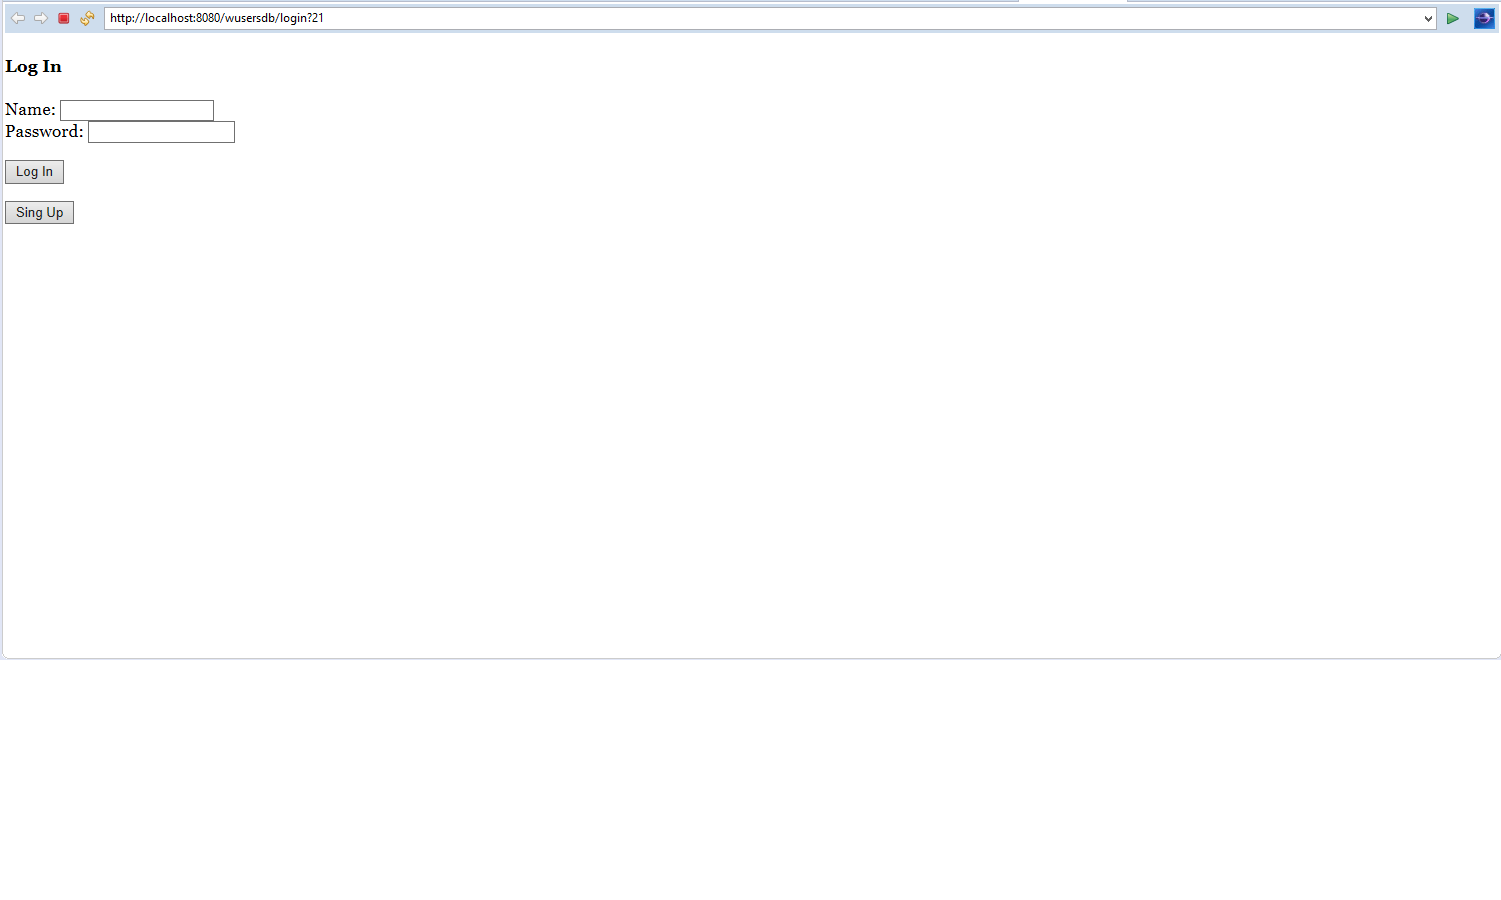
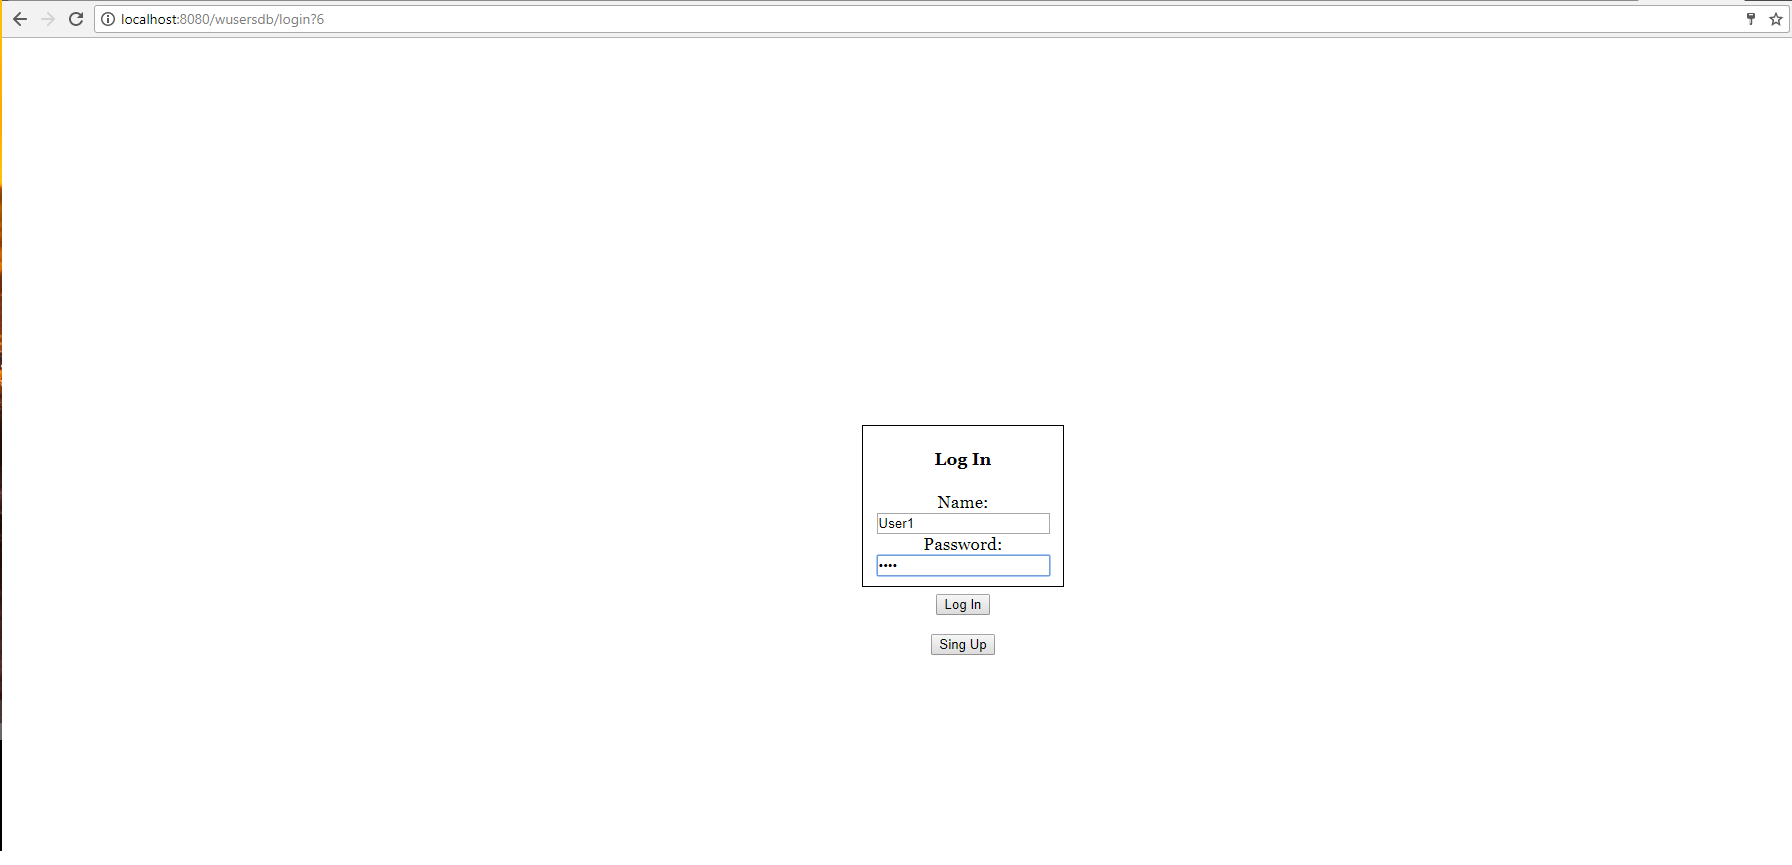
Refactoring

diff --git a/src/main/java/ua/sustavov/view/EditPanel.html b/src/main/java/ua/sustavov/view/EditPanel.html
@@ -1,24 +1,29 @@
 <!DOCTYPE html>
 <html xmlns:wicket="http://wicket.apache.org">
+<head>
+<meta charset="UTF-8">
+<link rel="stylesheet" type="text/css" href="style.css" />
+</head>
 <body>
 <wicket:panel>
 	<!-- <h4>Edit</h4> -->
+	<div id="editpanel_form">
 	<span style="color: green" wicket:id="succes"> </span>
 	<span style="color: red" wicket:id="feedback"></span>
 	<span wicket:id="listview">
 	<form wicket:id="panelForm">
-		Id: <input wicket:id="id" type="text" size="20" /><br /> Name: <input
-			wicket:id="name" type="text" size="20" /><br /> Surname: <input
-			wicket:id="surname" type="text" size="20" /><br /> Password: <input
-			wicket:id="password" type="password" size="20" /><br /> Confirm Password: <input
-			wicket:id="password2" type="password" size="20" /><br /> Email: <input
-			wicket:id="email" type="text" size="20" /><br /> Role: <select
+		Id: <input wicket:id="id" type="text" size="20" /> Name: <input
+			wicket:id="name" type="text" size="20" /> Surname: <input
+			wicket:id="surname" type="text" size="20" /> Password: <input
+			wicket:id="password" type="password" size="20" /> Confirm Password: <input
+			wicket:id="password2" type="password" size="20" /> Email: <input
+			wicket:id="email" type="text" size="20" /> Role: <select
 			wicket:id="role">
 			<option></option>
 		</select><br /> <input type="submit" value="Save" /> <button wicket:id="cancelbutton" type="button" value="Cancel">Cancel</button> 
 	</form>
 	</span>
-	
+	</div>
 </wicket:panel>
 </body>
 </html>

diff --git a/src/main/java/ua/sustavov/view/register/RegisterPage.html b/src/main/java/ua/sustavov/view/register/RegisterPage.html
@@ -2,22 +2,27 @@
 <html xmlns:wicket="http://wicket.apache.org">
 <head>
 <meta charset="UTF-8">
+<link rel="stylesheet" type="text/css" href="style.css" />
 <title>Registration page</title>
 </head>
 <body>
-	<h4>Registration</h4>
 	<span style="color: green" wicket:id="succes"> </span>
 	<span style="color: red" wicket:id="feedback"></span>
-	<form wicket:id="registerForm">
-		Name: <input wicket:id="name" type="text" size="20" /><br />
-		Surname: <input wicket:id="surname" type="text" size="20" /><br />
-		Email: <input wicket:id="email" type="text" size="20" /><br />
-		Password: <input wicket:id="password" type="password" size="20" /><br />
-		Confirm Password: <input wicket:id="password2" type="password"
-			size="20" /><br /> Role: <select wicket:id="role">
-			<option></option>
-		</select><br /> <input type="submit" value="Sing Up" />
-	</form>
-
+	<div id="registered_form">
+		<h4>Registration</h4>
+		<form wicket:id="registerForm">
+			Name: <input wicket:id="name" type="text" size="20" /><br />
+			Surname: <input wicket:id="surname" type="text" size="20" /><br />
+			Email: <input wicket:id="email" type="text" size="20" /><br />
+			Password: <input wicket:id="password" type="password" size="20" /><br />
+			Confirm Password: <input wicket:id="password2" type="password"
+				size="20" /><br /> Role: <select wicket:id="role">
+				<option></option>
+			</select><br />
+			<p>
+				<input type="submit" value="Sing Up" />
+			</p>
+		</form>
+	</div>
 </body>
 </html>

diff --git a/src/main/webapp/style.css b/src/main/webapp/style.css
@@ -69,10 +69,48 @@ h3 {
 #action_form {
     position:absolute;
         width:200px;
-        height:150px;
+        height:160px;
         left:50%;
         top:50%;
         margin-left:-100px;
         margin-top:-100px;
-        border:1px solid
+        border:1px solid;
+}
+#registered_form {
+    position:absolute;
+        width:200px;
+        height:300px;
+        left:50%;
+        top:50%;
+        margin-left:-100px;
+        margin-top:-100px;
+        border:1px solid;
+}
+#editpanel_form {
+    padding: 10px;
+  	margin: 0;
+}
+table.users {
+	border-width: 0px;
+	border-color: gray;
+	border-collapse: collapse;
+	position:relative;
+	left:30%;
+	border-spacing: 10px;
+
+}
+
+table.users th, table.users td {
+	border-width: 1px;
+	padding: 3px;
+	border-style: inset;
+	border-color: gray;
+}
+
+table.users th {
+	font-weight: bold;
+}
+
+a {
+	color: red;
 }

diff --git a/src/main/java/ua/sustavov/view/login/LoginPage.html b/src/main/java/ua/sustavov/view/login/LoginPage.html
@@ -6,14 +6,17 @@
 <title>Login page</title>
 </head>
 <body>
+	<span style="color: green" wicket:id="succes"> </span>
+	<span style="color: red" wicket:id="feedback"></span>
 	<div id="action_form">
 		<h4>Log In</h4>
-		<span style="color: green" wicket:id="succes"> </span> <span
-			style="color: red" wicket:id="feedback"></span>
+
 		<form wicket:id="loginForm">
 			Name: <input wicket:id="name" type="text" size="20" /><br />
 			Password: <input wicket:id="password" type="password" size="20" />
-			<p><input type="submit" value="Log In" /></p>
+			<p>
+				<input type="submit" value="Log In" />
+			</p>
 		</form>
 		<button wicket:id="singup" type="button" value="Sing Up">Sing
 			Up</button>

diff --git a/src/main/java/ua/sustavov/view/UsersPage.html b/src/main/java/ua/sustavov/view/UsersPage.html
@@ -2,31 +2,11 @@
 <html xmlns:wicket="http://wicket.apache.org">
 <head>
 <meta charset="UTF-8">
+<link rel="stylesheet" type="text/css" href="style.css" />
 <title>All users db</title>
-<style type="text/css">
-table.users {
-	border-width: 0px;
-	border-color: gray;
-	border-collapse: collapse;
-}
-
-table.users th, table.users td {
-	border-width: 1px;
-	padding: 3px;
-	border-style: inset;
-	border-color: gray;
-}
-
-table.users th {
-	font-weight: bold;
-}
-
-a {
-	color: red;
-}
-</style>
 </head>
 <body>
+
 	<span style="color: green" wicket:id="succes"> </span>
 	<span style="color: red" wicket:id="feedback"></span>
 	<table wicket:id="users" class="users"></table>

diff --git a/src/main/java/ua/sustavov/view/EditPanel.java b/src/main/java/ua/sustavov/view/EditPanel.java
@@ -47,7 +47,7 @@ public class EditPanel extends Panel {
 		}
 
 		@Override
-		protected void onSubmit() {
+		public void onSubmit() {
 			User editUser = getModelObject();
 			getPage().modelChanged();
 		}
@@ -133,10 +133,10 @@ public class EditPanel extends Panel {
 
 			@Override
 			public void onClick() {
-
+				deleteForm(model.getObject());
 			}
 		};
-		
+
 		panelForm.add(uidTextField);
 		panelForm.add(nameTextField);
 		panelForm.add(surnameTextField);
@@ -154,7 +154,5 @@ public class EditPanel extends Panel {
 		listForms.remove(userForm);
 		userFormMap.remove(user);
 	}
-
-	
 
 }

diff --git a/src/main/java/ua/sustavov/view/login/LoginPage.java b/src/main/java/ua/sustavov/view/login/LoginPage.java
@@ -115,7 +115,7 @@ public class LoginPage extends WebPage {
 	@SuppressWarnings("unused")
 	private boolean authentication(final String name, final String password) {
 		User checkUser = userService.getByName(getName());
-		if (checkUser != null) {
+		if (checkUser != null && password.equals(checkUser.getPassword())) {
 			setLogginUserSession(checkUser);
 			return true;
 		}
